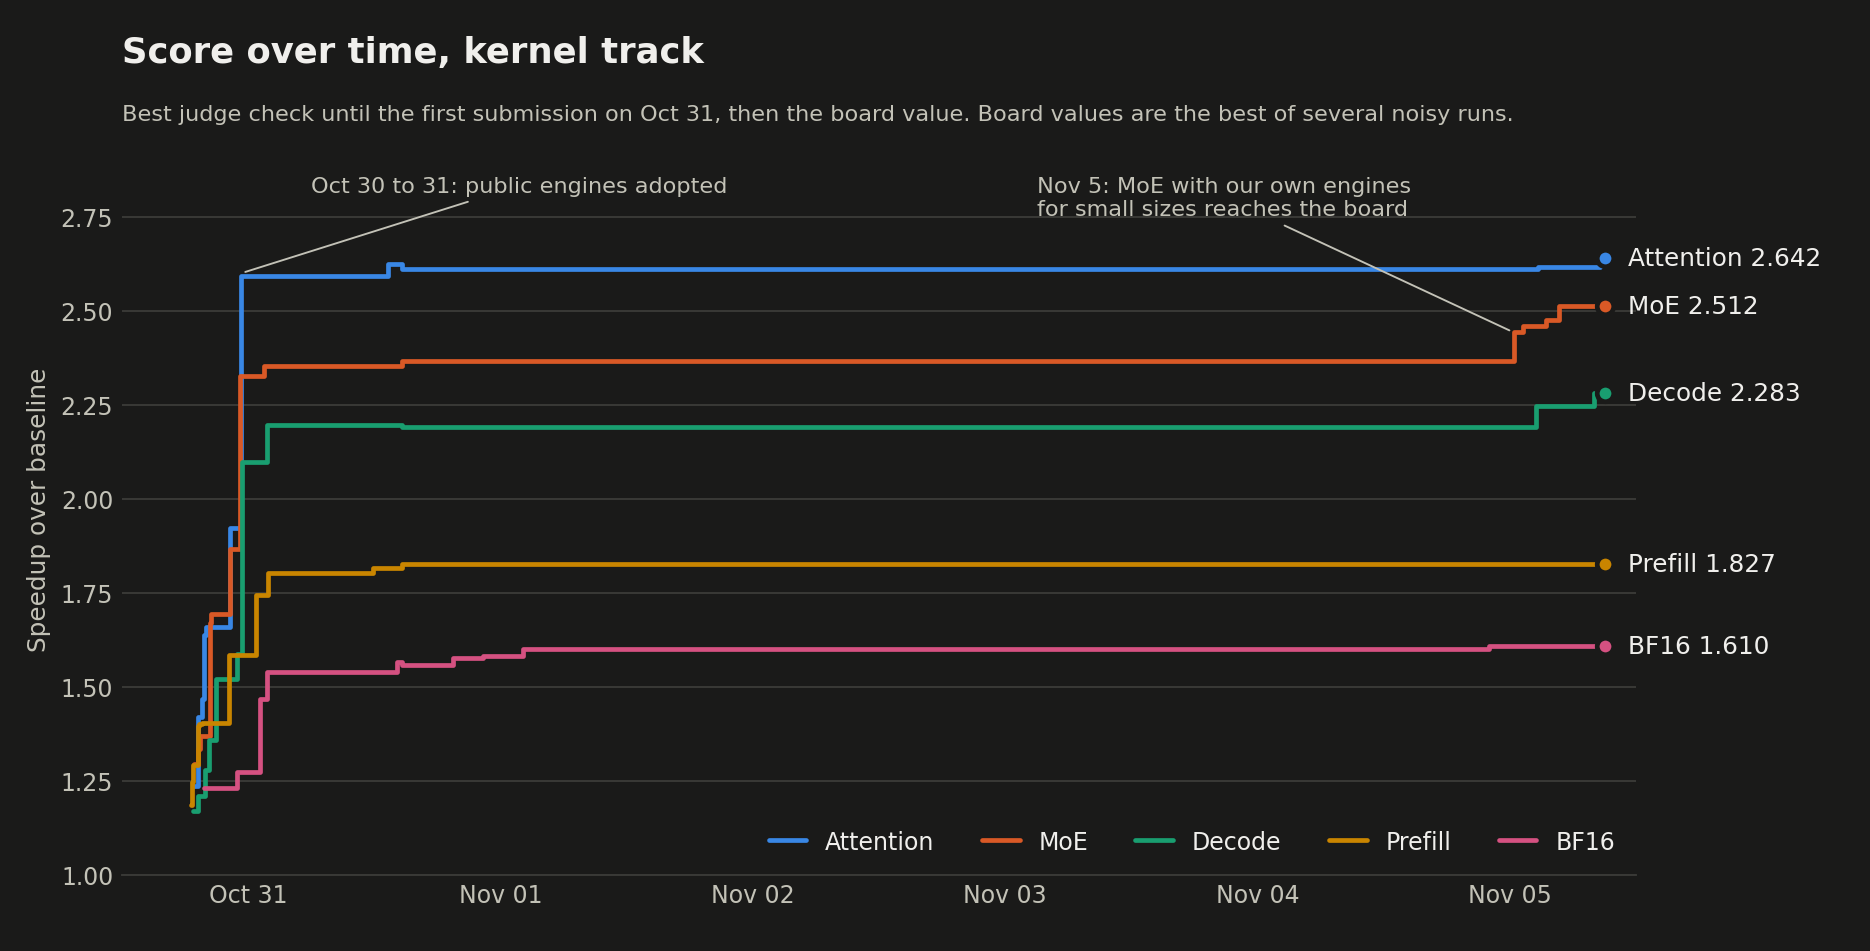
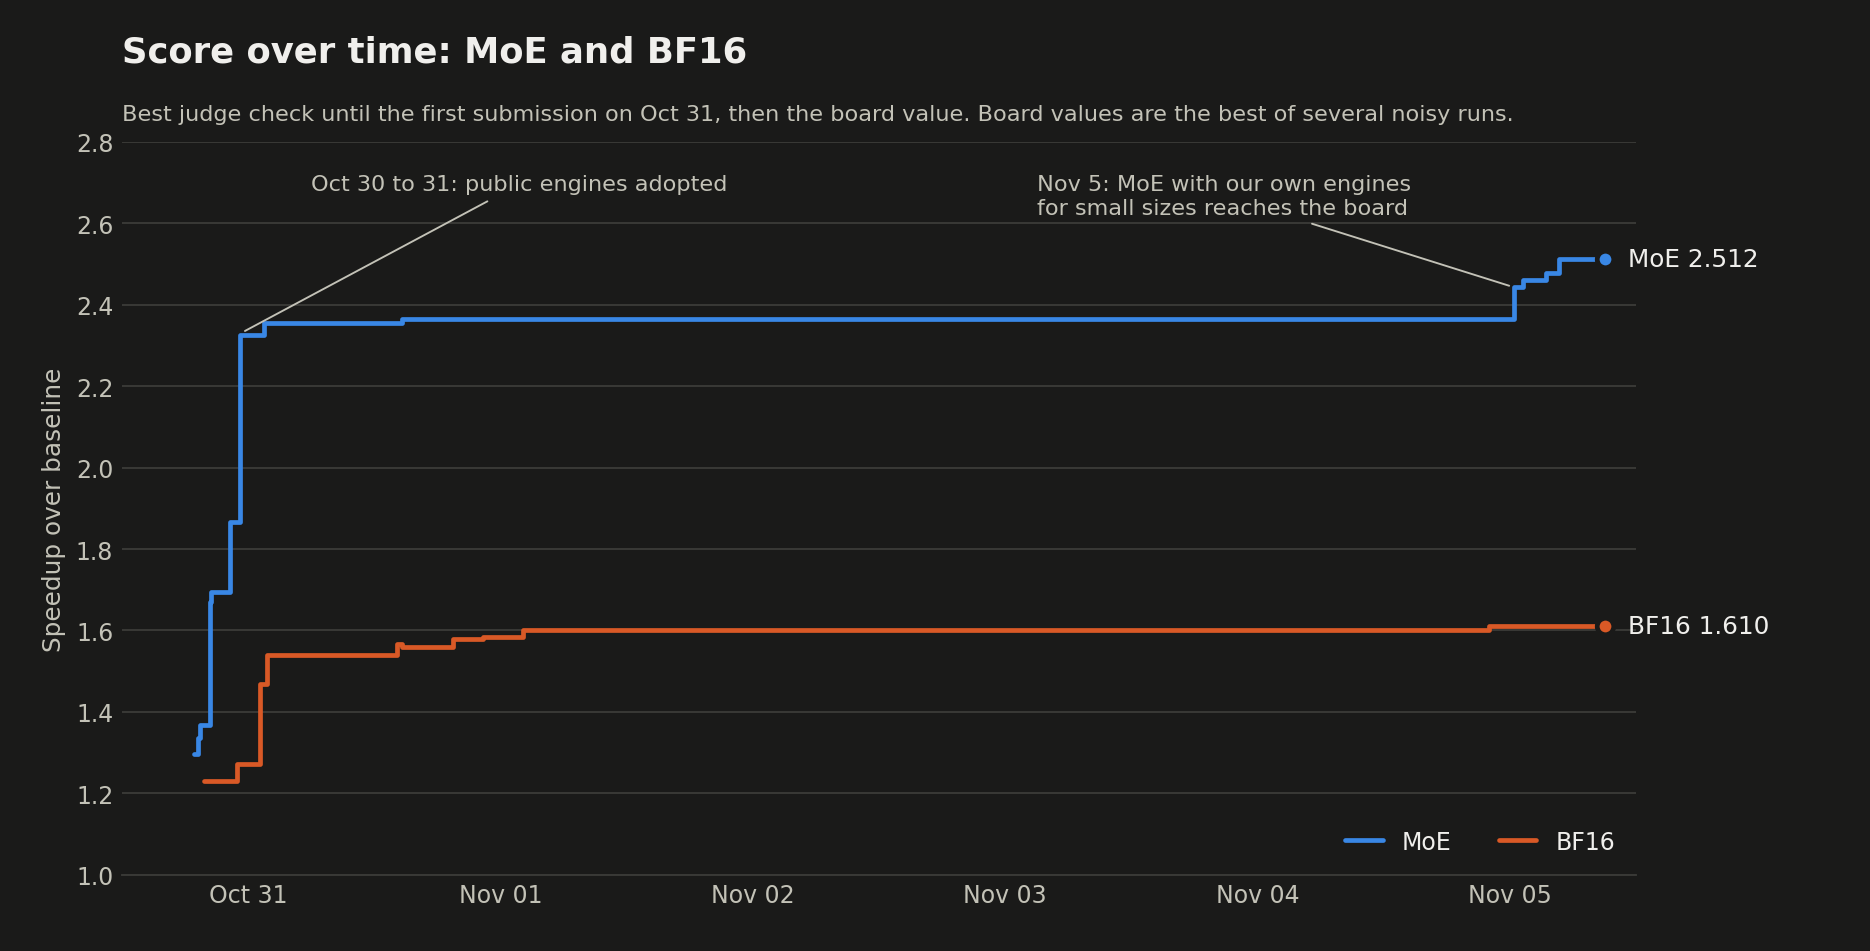
Focus the case study on MoE and BF16

diff --git a/okc-challenge/progress/make_chart.py b/okc-challenge/progress/make_chart.py
@@ -12,7 +12,7 @@ import matplotlib.pyplot as plt
 HERE = Path(__file__).parent
 CLOSE = dt.datetime(2026, 11, 5, 8, 59)
 START = dt.datetime(2026, 10, 30, 12, 0)
-ORDER = [("attention", "Attention"), ("moe", "MoE"), ("decode", "Decode"), ("prefill", "Prefill"), ("bf16", "BF16")]
+ORDER = [("moe", "MoE"), ("bf16", "BF16")]
 THEMES = {
     "progress.png": {
         "surface": "#fcfcfb",
@@ -62,21 +62,21 @@ def draw(rows, filename, theme):
     note = {"fontsize": 9.5, "color": theme["secondary"], "ha": "left", "va": "top"}
     ax.annotate(
         "Oct 30 to 31: public engines adopted",
-        (dt.datetime(2026, 10, 30, 23, 20), 2.60),
-        xytext=(dt.datetime(2026, 10, 31, 6, 0), 2.86),
+        (dt.datetime(2026, 10, 30, 23, 20), 2.33),
+        xytext=(dt.datetime(2026, 10, 31, 6, 0), 2.72),
         arrowprops={"arrowstyle": "-", "color": theme["secondary"], "linewidth": 0.8},
         **note,
     )
     ax.annotate(
         "Nov 5: MoE with our own engines\nfor small sizes reaches the board",
         (dt.datetime(2026, 11, 5, 0, 20), 2.443),
-        xytext=(dt.datetime(2026, 11, 3, 3, 0), 2.86),
+        xytext=(dt.datetime(2026, 11, 3, 3, 0), 2.72),
         arrowprops={"arrowstyle": "-", "color": theme["secondary"], "linewidth": 0.8},
         **note,
     )
 
     ax.set_xlim(START, CLOSE + dt.timedelta(hours=3))
-    ax.set_ylim(1.0, 2.95)
+    ax.set_ylim(1.0, 2.8)
     ax.xaxis.set_major_locator(mdates.DayLocator())
     ax.xaxis.set_major_formatter(mdates.DateFormatter("%b %d"))
     ax.set_ylabel("Speedup over baseline", color=theme["secondary"], fontsize=10.5)
@@ -87,7 +87,7 @@ def draw(rows, filename, theme):
         ax.spines[side].set_visible(False)
     ax.spines["bottom"].set_color(theme["grid"])
 
-    ax.set_title("Score over time, kernel track", loc="left", color=theme["primary"], fontsize=15, fontweight="semibold", pad=34)
+    ax.set_title("Score over time: MoE and BF16", loc="left", color=theme["primary"], fontsize=15, fontweight="semibold", pad=34)
     ax.text(
         0,
         1.03,

diff --git a/okc-challenge/README.md b/okc-challenge/README.md
@@ -1,34 +1,32 @@
 # Open Kernel Challenge: GPU kernel optimization case study
 
-The Muse Spark Open Kernel Challenge asked 2,014 participants to speed up five inference kernels on an NVIDIA H200, using a judge that measures real speedup against a stock baseline and checks that results stay correct.
+The Muse Spark Open Kernel Challenge asked 2,014 participants to speed up five inference kernels on an NVIDIA H200, using a judge that measures real speedup against a stock baseline and checks that results stay correct. I focused on two of them: MoE and BF16 projection.
 
-I placed **148th overall (top 7.3%)** and **43rd of 1,747 on BF16 projection**. The work was done by AI coding agents under my direction on one rented H200, using `kdev`, the toolkit in this repository, which was built for the challenge. My part was setting direction, reviewing evidence and deciding what to pursue.
+I placed **148th overall (top 7.3%)** with **43rd of 1,747 on BF16 projection** and **60th of 1,426 on MoE**. The work was done by AI coding agents under my direction on one rented H200, using `kdev`, the toolkit in this repository, which was built for the challenge. My part was setting direction, reviewing evidence and deciding what to pursue.
 
 ## Results
 
 <picture>
   <source media="(prefers-color-scheme: dark)" srcset="progress/progress-dark.png">
-  <img alt="Line chart of score over time for the five kernel problems, Oct 30 to Nov 5. All five rise steeply in the first day, stay nearly flat until Nov 4, and MoE, Decode and Attention rise again on Nov 5. Final values: Attention 2.642, MoE 2.512, Decode 2.283, Prefill 1.827, BF16 1.610." src="progress/progress.png">
+  <img alt="Line chart of score over time for MoE and BF16, Oct 30 to Nov 5. Both rise steeply in the first day. BF16 keeps rising slowly, and MoE stays flat until a second rise on Nov 5. Final values: MoE 2.512, BF16 1.610." src="progress/progress.png">
 </picture>
 
 | Problem | Speedup | Rank | Top |
 |---|---|---|---|
 | BF16 projection | 1.610x | 43 of 1,747 | 2.5% |
 | MoE | 2.512x | 60 of 1,426 | 4.2% |
-| Decode layer | 2.283x | 148 of 1,300 | 11.4% |
-| Attention decode | 2.642x | 216 of 1,380 | 15.7% |
-| Prefill layer | 1.827x | 203 of 899 | 22.6% |
 
 These are the board values when the kernel track closed on 2026-11-05, and the organizers could still revise them. Each one is the best of several noisy runs: the same MoE file scored between 2.451 and 2.512. The data behind the chart is in [`progress/progress.csv`](progress/progress.csv).
 
 ## What's mine and what isn't
 
-The submitted kernels build on public engines from other participants, mainly vjeux and alygg77, with my tuning on top. Adopting those engines caused the big jump on the first night. **Those submissions aren't in this repository, because they contain other people's code.**
+The submitted kernels build on public engines from other participants, mainly alygg77, with my tuning on top. Adopting those engines caused the big jump on the first night. **Those submissions aren't in this repository, because they contain other people's code.**
 
 My own work is:
 
 - **`kdev`**, the measurement and multi-agent toolkit, built with AI agents. See the [repository README](../README.md).
 - **MoE engines for small batch sizes.** Together with tuning the public engine for large sizes, they raised MoE from 2.366 to a repeat-check level of about 2.49. The sources are in [`engines/`](engines/).
+- **BF16 tuning.** Tuning the public engine raised BF16 from 1.539 to a repeat-run level of about 1.60.
 - **Hardware measurements** that showed where the time was going, in [`reports/`](reports/).
 
 ## How the work ran

diff --git a/README.md b/README.md
@@ -8,11 +8,11 @@ It was built with AI agents during the [Open Kernel Challenge](okc-challenge/REA
 
 ## Results
 
-Out of 2,014 participants, we finished 148th overall, and 43rd of 1,747 on our best problem.
+Out of 2,014 participants, we finished 148th overall, with 43rd of 1,747 on BF16 projection and 60th of 1,426 on MoE, the two problems we focused on.
 
 <picture>
   <source media="(prefers-color-scheme: dark)" srcset="okc-challenge/progress/progress-dark.png">
-  <img alt="Line chart of score over time for the five kernel problems, Oct 30 to Nov 5. All five rise steeply in the first day, stay nearly flat until Nov 4, and MoE, Decode and Attention rise again on Nov 5. Final values: Attention 2.642, MoE 2.512, Decode 2.283, Prefill 1.827, BF16 1.610." src="okc-challenge/progress/progress.png">
+  <img alt="Line chart of score over time for MoE and BF16, Oct 30 to Nov 5. Both rise steeply in the first day. BF16 keeps rising slowly, and MoE stays flat until a second rise on Nov 5. Final values: MoE 2.512, BF16 1.610." src="okc-challenge/progress/progress.png">
 </picture>
 
 The [case study](okc-challenge/README.md) separates my own work from the public engines the submissions built on, and covers the [lessons learned](okc-challenge/LESSONS.md).

diff --git a/okc-challenge/LESSONS.md b/okc-challenge/LESSONS.md
@@ -2,7 +2,7 @@
 
 ## Measuring
 
-**Match the judge's toolchain first.** A local build with nvcc 12.8 serialized an attention kernel that the judge's CUDA 13 build did not. That made one kernel look 27% slower (491 vs 357 µs) and flipped a design decision. A local result is only comparable once the compiler version matches.
+**Match the judge's toolchain first.** A local build with nvcc 12.8 serialized a kernel that the judge's CUDA 13 build did not. That made one kernel look 27% slower (491 vs 357 µs) and flipped a design decision. A local result is only comparable once the compiler version matches.
 
 **Reproduce the judge's cache state.** Our harness flushed the L2 cache by writing a buffer, and the judge flushes by reading one. The dirty lines were written back during the timed kernel, which added 1–2.5 µs to small kernels and inflated every estimate of the gap to the floor.
 
